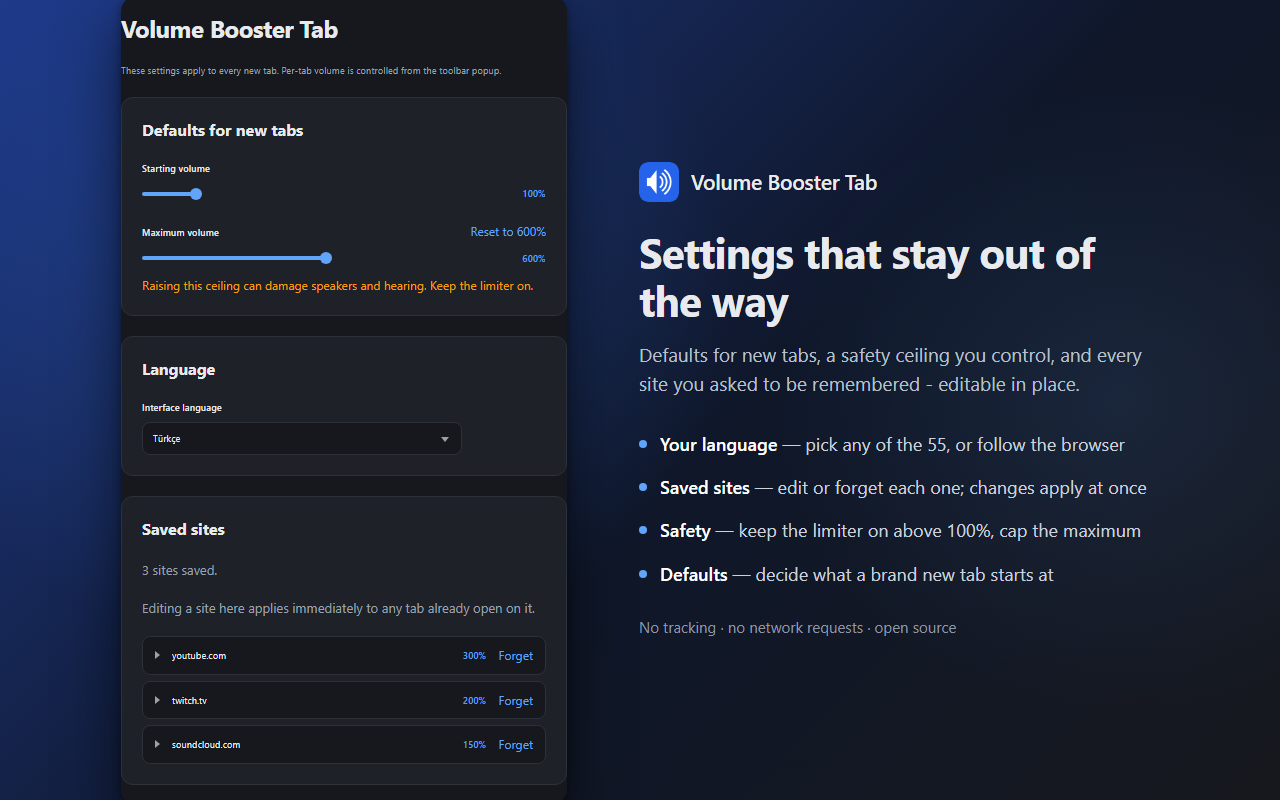
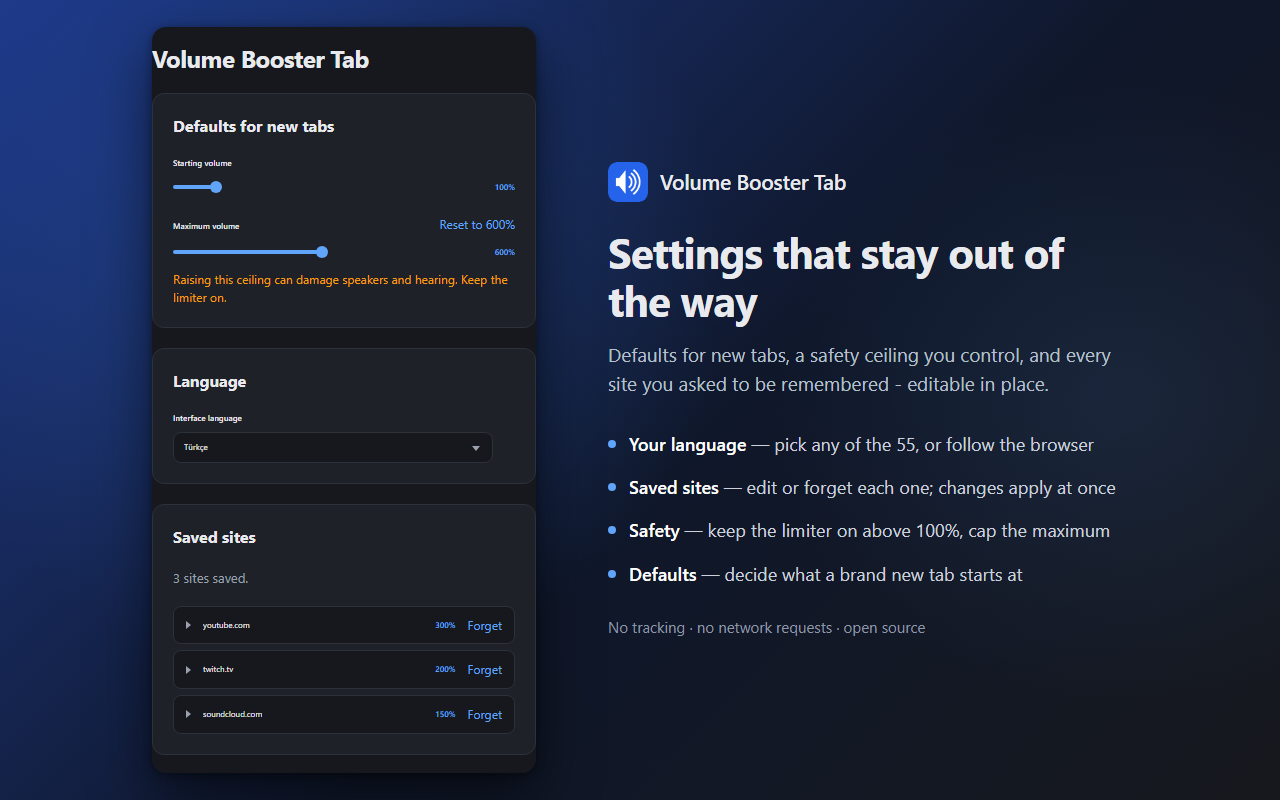
fix: ship only the 1280x800 screenshots
The 640x400 variant the stores also accept halves every dimension, which
puts the popup's 13px type at 6px - the interface becomes unreadable, and
showing the interface is the entire point of the image. Removed the files
and the recommendation; the generator still produces the size on request,
with a note saying not to.

Also tightens the settings scene, which was overflowing the canvas: it
carries roughly twice the content of the popup, so it now scales to 0.62
rather than 0.72, and the two paragraphs that were unreadable at that size
are gone.

diff --git a/docs/chrome-submission.md b/docs/chrome-submission.md
@@ -254,15 +254,14 @@ dist/chrome-mv3-<version>.zip.
 | Asset | Requirement | Notes |
 | --- | --- | --- |
 | Icon | 128×128 PNG | `public/icons/icon-128.png`, generated by `pnpm run icons` |
-| Screenshots | 1280×800 or 640×400, at least one, up to five | Generated: `pnpm run screenshots` |
+| Screenshots | 1280×800, at least one, up to five | Generated: `pnpm run screenshots` |
 | Small promo tile | 440×280 PNG | Optional, but the listing looks unfinished without it |
 | Marquee promo tile | 1400×560 PNG | Optional; only used if the item is featured |
 
 ### Generating the screenshots
 
 ```bash
-pnpm run screenshots                 # 1280x800, the size Chrome prefers
-node scripts/screenshots.mjs --size=640x400
+pnpm run screenshots
 ```
 
 Output lands in `store-assets/`. Three images are produced:
@@ -281,6 +280,11 @@ edit that file to change the look without touching the generator.
 > The panels are driven by fixed sample state rather than a live tab, so the
 > output is identical on every run. They deliberately show no third-party page
 > content: a listing image must not carry another site's material.
+
+> [!TIP]
+> Chrome also accepts 640×400, and the generator will produce it, but do not.
+> Everything halves, which puts the popup's 13px type at 6px and makes the
+> interface unreadable — the whole point of the image.
 
 ---
 
